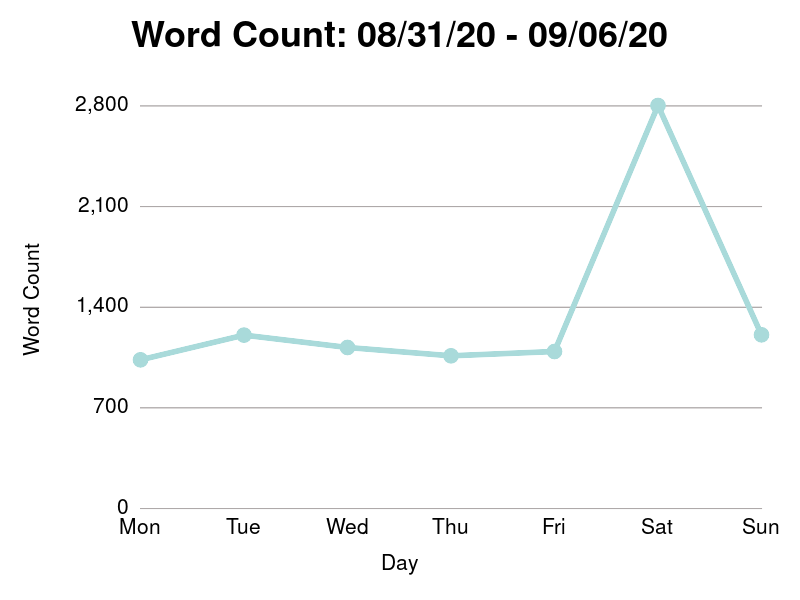
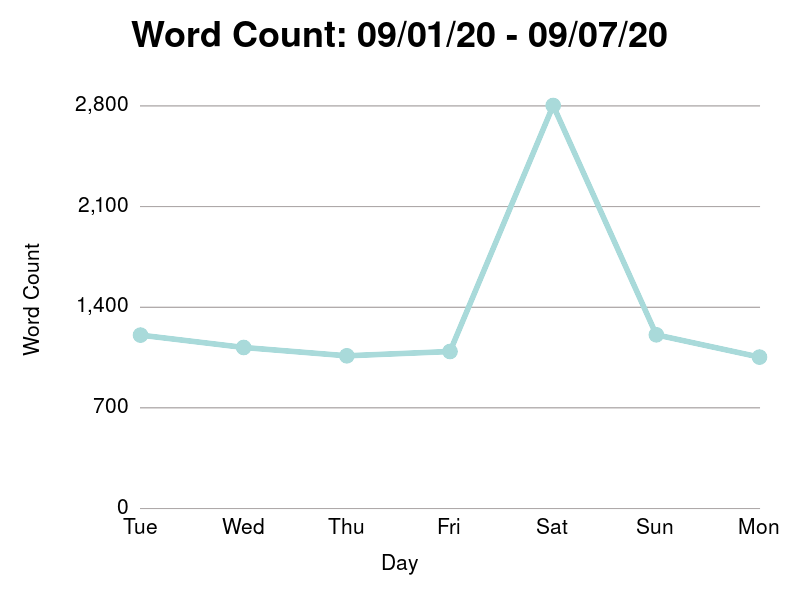
Post

diff --git a/entries/2020-09-07.md b/entries/2020-09-07.md
@@ -1,0 +1,127 @@
+---
+title: partying, my plastic pitcher, and ping-pong
+---
+
+Dear Journal,
+
+Good morning, everyone!  Happy Labor day.  I hope you took the
+opportunity to use the extra day in our weekend to catch up on sleep,
+or at least do something that you enjoy.
+
+We're operating on lazy holiday hours this morning.  No getting out of
+bed until at least 9:30, and even then no labor of any kind will be
+even considered until lunch time.  I'm grateful to have a morning to
+take it easy.  Marissa and I stayed up pretty late last night
+partying.  I use the term "partying" loosely of course.  Our rendition
+of a labor day weekend rager is just putting the kids to bed, hanging
+out in the art studio, and drinking beer.  After we had finally
+emerged from the basement to go to bed, we were distracted by a last
+minute game of ping-pong.  More beer and ping-pong thwarted any chance
+of a reasonable bedtime, and when we finally finished playing, we
+forgot about bedtime all together and just started a movie instead.
+
+This morning, I collected Rodney from his room and put him to work
+helping with my morning routine.  He fed the dogs and put a few dishes
+away.  He finished his breakfast in the time it took me to brew a pot
+of coffee, and after we took a cozy corner of the couch and watched
+some water slide videos.
+
+Water slide videos were his second choice after Blippi.  I appreciated
+his willingness to humor we with a throwback.  Sitting on the couch
+with him under a blanket watching laid back GoPro footage of various
+European water slides took me back to a much simpler time when we only
+had one child to worry about and "corona" was just a beer that I drink
+on vacation.
+
+_Sip_.  The coffee tastes good today.  Yesterday I ran a cycle of
+de-scaling solution, which is supposed to purge all that chalky
+calcium build-up from the system.  Doing it on a monthly basis, I have
+a pretty good system now.  I've even drawn a thick black line with a
+sharpie on our plastic pitcher, marking the correct level of water.  I
+have a hand drawn line at 32 ounces for making de-scaling solution, 3
+cups for making sticky rice, and one marking 548 grams for making
+bread.  I aspire to one day be able to measure everything with that
+pitcher.  Why even stop at water?  I should have a marking for coffee
+beans, dog food, the appropriate amount of milk in a bowl of cereal,
+or perhaps even the recommended amount of toothpaste for my brush.  I
+kid, of course, but Marissa teases me for my weird defaulting
+preference for this clear plastic pitcher.  We joke that it's kind of
+like the pig character from _Secret Life of Pets_ - the one that is
+covered in ink from being used as practice at a tattoo parlor.
+
+So happy labor day, everyone.  What are we eating today?  In the last
+leg of meal planning, I forgot to account for a classic grilled food
+to make today.  We were faced with a tough decision.  Either we brave
+the grocery store on a holiday weekend afternoon, or make due with
+whatever is in the freezer.  We're going with the latter.  The plan is
+to use some backup frozen ground beef to make burgers, and Marissa
+will pick up a bag of chips and bag of hamburger buns from Target to
+pad things.
+
+As I write, Rodney has lost interest in YouTube and has instead taken
+to chasing a ping-pong ball around the room.  Ping-pong continues to
+be the seasonal distraction in our home.  The more we play, the harder
+and harder it gets to hide how competitive I am about ping-pong.  I
+didn't know I was such a stickler for the rules.  As Marissa and I
+scrimmaged last night, my pedantic nature kicked in.
+
+"What was wrong with that one?" asked Marissa after I caught her serve
+and rolled it back across the table.
+
+"A legal serve is paddle, table, table," I said.  "It has to hit your
+side of the table immediately before it hits mine."
+
+"Why is that important?" she asked.
+
+"Well, because otherwise you could just smash every serve as hard as
+you wanted and make it impossible for the other person to score," I
+replied.
+
+"But we're not even keeping score," she laughed.
+
+I channeled my inner Walter Sobchak.  "_Has the whole world gone
+crazy?  Am I the only one around here who gives a shit about the
+rules?_"
+
+We continued playing.  Marissa chopped at the ball midair, sending it
+sailing across the table.  It missed my paddle by an inch.
+
+"Ah, well that would be my point," she said.
+
+"Uh... _nope dayss_," I replied, mimicking Rodney.
+
+"Yeah-huh," insisted Marissa.  "If you swing at it while it's going
+out of bounds, that's my point."
+
+"No, I would actually have to hit it," I said.
+
+"Ehhh, I'm pretty sure it's my point if you swing for it," said
+Marissa, digging in.  She wheeled over to the computer to consult the
+Internet.
+
+"That _can't_ be the rule," I continued.  "If _intent_ had anything to
+do with it, you would need some kind of ping-pong referee to watch
+each ball and judge if I _intended_ to swing at it or not.  What if my
+arm just moved that way from momentum?"
+
+"Oh _momentum_," sneered Marissa.  "Wow this website is ugly.  But it
+has all the rules."  Her index finger flicked the scrollwheel, and we
+scanned the webpage with our eyes.  We spent a few minutes silently
+reading.
+
+"I think you're right," said Marissa.
+
+"Of course, we can make our own house rules," I said.  "I like rules
+that err on the side of keeping the game going.  Like I've always
+played it that if the ball is going out of bounds, you can choose to
+keep it in play and volley it back."
+
+Marissa got up from her chair.  "There are way more rules to ping-pong
+than I thought," she said tiredly.  "I literally thought the only rule
+was just _hit it back_."
+
+"NOPE DAYSSS," I interrupted.  "It's really complicated.  There's lots
+of rules, and I care deeply about all of them because you married a
+man-child."  We laughed.
+
+Thanks for stopping by today.  Have a great Monday, everyone.
